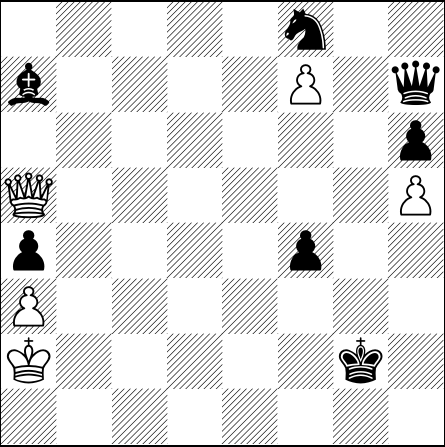
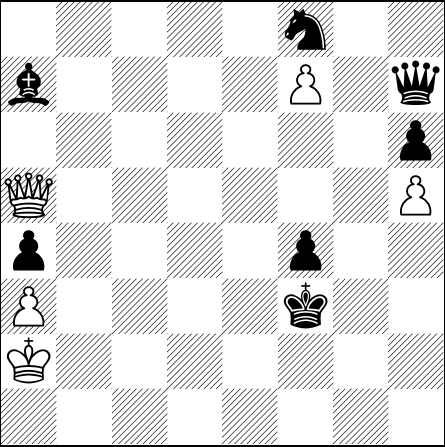
[automated] Regenerate text/pdf for chessboard

Changed region(s): [[0.7596, 0.7562, 0.8764, 0.8725], [0.6427, 0.6107, 0.7596, 0.7562]]

diff --git a/default_filepath.tex b/default_filepath.tex
@@ -13,6 +13,6 @@
 \normalsize%
 \setchessboard{showmover=false}%
 \newgame%
-\fenboard{5n2/b4P1q/7p/Q6P/p4p2/P7/K5k1/8 b - - 4 99}%
+\fenboard{5n2/b4P1q/7p/Q6P/p4p2/P4k2/K7/8 w - - 5 100}%
 \chessboard%
 \end{document}
